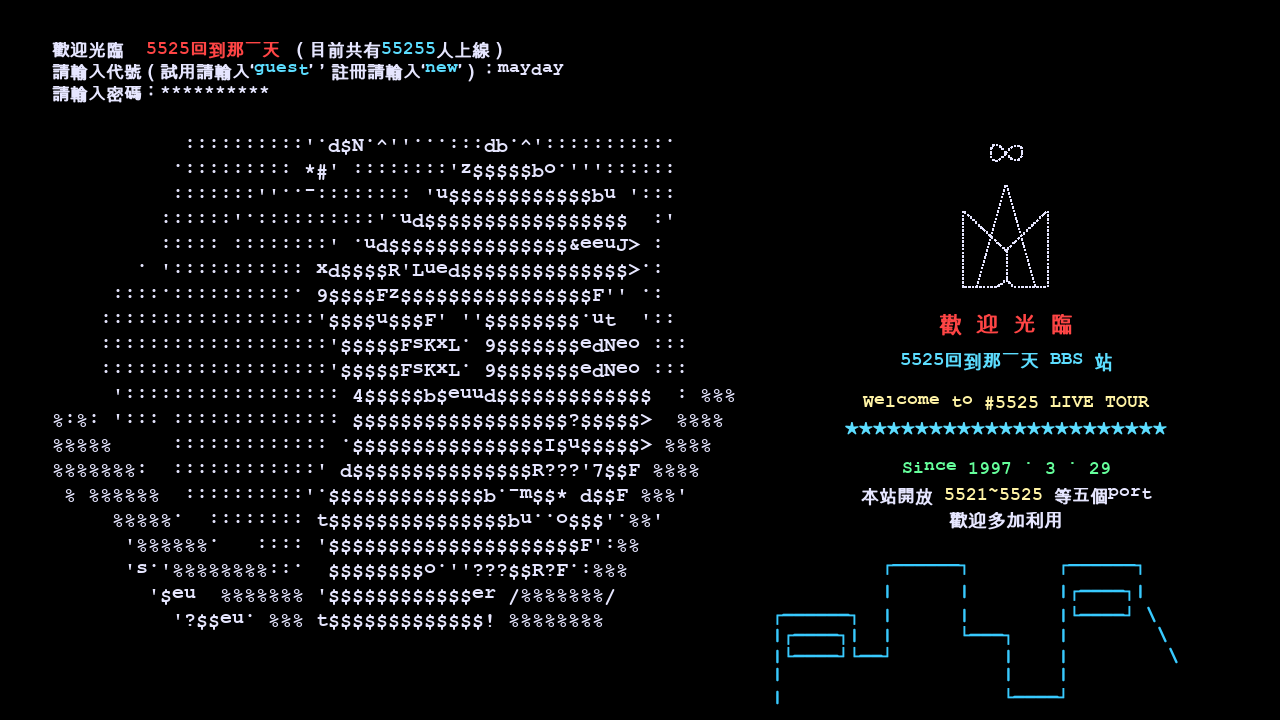
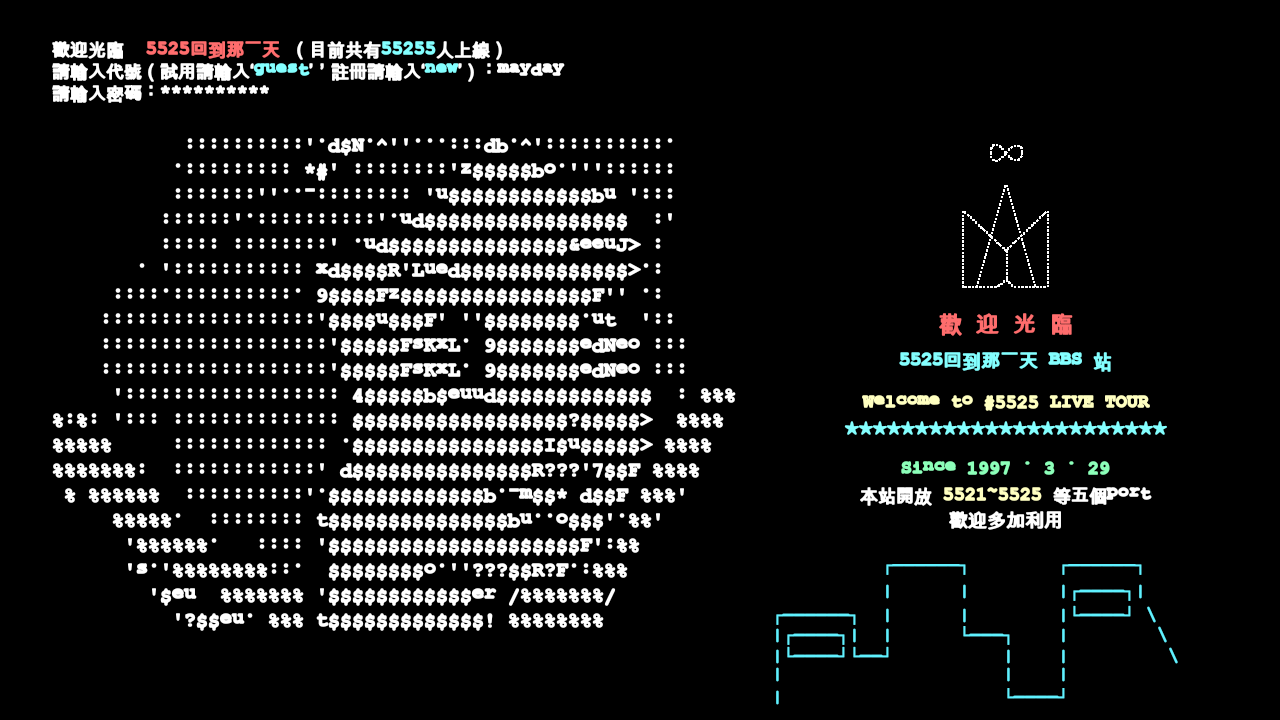
Lift GIF edge luminance and use white heavier glyphs

diff --git a/render-profile.py b/render-profile.py
@@ -12,8 +12,8 @@ from PIL import Image, ImageDraw, ImageFont
 ROOT = Path(__file__).resolve().parent
 data = json.loads(subprocess.check_output(['node', 'export-profile.cjs'], cwd=ROOT))
 T = data['T']
-COLORS = {'white': '#e6e6ff', 'red': '#ff4545', 'cyan': '#5cddff',
-          'yellow': '#fff3a5', 'green': '#65ff9b', 'blue': '#38caff'}
+COLORS = {'white': '#ffffff', 'red': '#ff4545', 'cyan': '#5cffff',
+          'yellow': '#ffffa5', 'green': '#65ff9b', 'blue': '#38eaff'}
 FONT_DIR = Path('/System/Library/Fonts/Supplemental')
 fonts = {}
 def font(size, cjk=False):
@@ -32,7 +32,7 @@ def text(draw, xy, value, size=18, color='white', center=False):
     for char in value:
         f = font(size, ord(char) > 127)
         draw.text((x, y), char, font=f, fill=COLORS[color], anchor='lt',
-                  stroke_width=0.4 if ord(char) > 127 else 0,
+                  stroke_width=0.7,
                   stroke_fill=COLORS[color])
         x += f.getlength(char)
     return x
@@ -110,12 +110,15 @@ def frame(now):
     for i,row in enumerate(data['skyRows']):
         if now>=row['at']:
             draw.text((772,564+i*20.7),row['text'],font=font(18),fill=COLORS['blue'],anchor='lt',stroke_width=0.3)
-    return image
+    # Lift antialiased edges as well as glyph cores: GitHub downscales the
+    # 1280px source, so dark edge pixels otherwise dominate thin strokes.
+    return image.point([round(255 * (i / 255) ** 0.65) for i in range(256)] * 3)
 
 out=ROOT/'assets'
 out.mkdir(exist_ok=True)
 poster=frame(21)
 poster.save(out/'mayday-5525-poster.png')
+poster.resize((640,360),Image.Resampling.LANCZOS).save(out/'profile-size-preview.png')
 palette=poster.quantize(colors=256)
 frames=[frame(i/10).quantize(palette=palette,dither=Image.Dither.NONE) for i in range(210)]
 frames[0].save(out/'mayday-5525-21s.gif',save_all=True,append_images=frames[1:],
